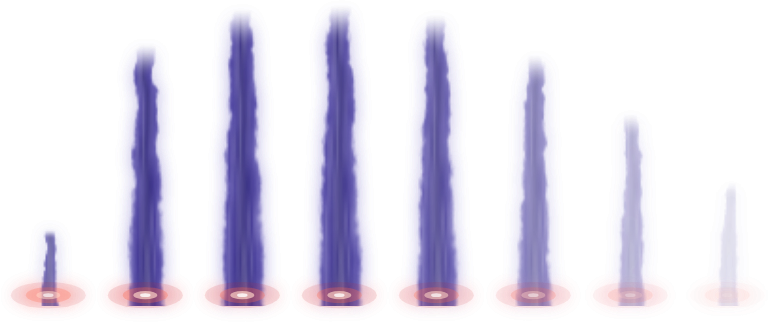
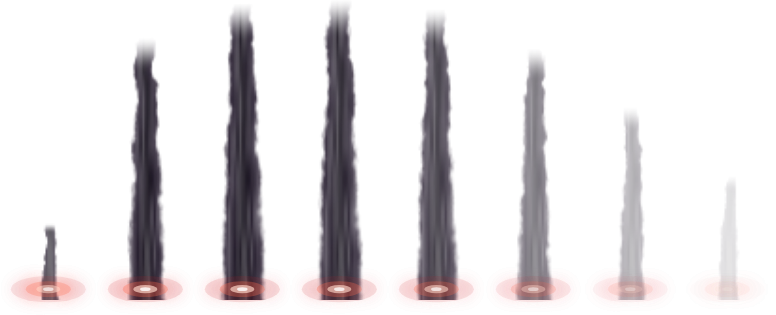
Shinobi ink back to black (the player's pick); Stormcaller's violet clouds stay

diff --git a/src/render/fx-sheets.js b/src/render/fx-sheets.js
@@ -133,20 +133,20 @@ export const FX_SHEETS = {
   celcomet: { w: 107, h: 269, n: 4, fps: 14, px: 53, py: 240, d: 3, loop: true },
   celhealbloom: { w: 191, h: 256, n: 7, fps: 18, px: 96, py: 218, d: 3, loop: false },
   cellightwall: { w: 104, h: 242, n: 6, fps: 14, px: 52, py: 225, d: 3, loop: true },
-  celslashink: { w: 246, h: 165, n: 8, fps: 30, px: 108, py: 122, d: 3, loop: false, r: 93.75, mid: -1.571, turn: 1 },
-  celinkhit: { w: 177, h: 174, n: 5, fps: 26, px: 80, py: 84, d: 3, loop: false },
+  celslashink: { w: 246, h: 157, n: 8, fps: 30, px: 108, py: 114, d: 3, loop: false, r: 93.75, mid: -1.571, turn: 1 },
+  celinkhit: { w: 166, h: 155, n: 5, fps: 26, px: 80, py: 77, d: 3, loop: false },
   celsmokebomb: { w: 245, h: 153, n: 8, fps: 18, px: 129, py: 128, d: 3, loop: false },
   celseal: { w: 211, h: 215, n: 7, fps: 14, px: 106, py: 106, d: 3, loop: false },
-  celinkfox: { w: 404, h: 204, n: 7, fps: 14, px: 190, py: 192, d: 3, loop: false },
+  celinkfox: { w: 378, h: 178, n: 7, fps: 14, px: 177, py: 179, d: 3, loop: false },
   celfoxfire: { w: 78, h: 153, n: 8, fps: 16, px: 40, py: 123, d: 3, loop: true },
   celfoxtrail: { w: 182, h: 60, n: 4, fps: 18, px: 156, py: 29, d: 3, loop: true },
   celfoxhit: { w: 172, h: 123, n: 7, fps: 22, px: 93, py: 83, d: 3, loop: false },
   celfoxtail: { w: 136, h: 197, n: 8, fps: 12, px: 111, py: 173, d: 3, loop: true },
   celflamefox: { w: 404, h: 200, n: 8, fps: 14, px: 190, py: 190, d: 3, loop: false },
-  celpillarink: { w: 97, h: 322, n: 8, fps: 20, px: 48, py: 295, d: 3, loop: false },
-  celringink: { w: 264, h: 264, n: 6, fps: 24, px: 132, py: 132, d: 3, loop: false },
+  celpillarink: { w: 97, h: 315, n: 8, fps: 20, px: 48, py: 289, d: 3, loop: false },
+  celringink: { w: 262, h: 261, n: 6, fps: 24, px: 131, py: 131, d: 3, loop: false },
   celembink: { w: 126, h: 126, n: 4, fps: 12, px: 63, py: 63, d: 3, loop: false },
-  celinkaura: { w: 132, h: 183, n: 8, fps: 10, px: 72, py: 167, d: 3, loop: true },
+  celinkaura: { w: 115, h: 175, n: 8, fps: 10, px: 62, py: 167, d: 3, loop: true },
   cellog: { w: 96, h: 98, n: 6, fps: 14, px: 45, py: 68, d: 3, loop: false },
   celpillarfox: { w: 84, h: 327, n: 8, fps: 20, px: 39, py: 298, d: 3, loop: false },
   celringfox: { w: 262, h: 262, n: 6, fps: 24, px: 130, py: 129, d: 3, loop: false },
@@ -174,10 +174,10 @@ export const FX_SHEETS = {
   celspitsplat: { w: 156, h: 157, n: 8, fps: 20, px: 71, py: 67, d: 3, loop: false },
   celringspiritbig: { of: 'celringspirit', k: 2.6 },
   cellanternbig: { of: 'cellantern', k: 1.5 },
-  celinkbrush: { w: 313, h: 86, n: 8, fps: 22, px: 155, py: 37, d: 3, loop: false },
+  celinkbrush: { w: 311, h: 77, n: 8, fps: 22, px: 155, py: 30, d: 3, loop: false },
   celleafwisp: { w: 92, h: 91, n: 8, fps: 14, px: 46, py: 45, d: 3, loop: true },
   celleapshadow: { w: 256, h: 155, n: 7, fps: 20, px: 206, py: 78, d: 3, loop: false },
-  celleapink: { w: 253, h: 151, n: 7, fps: 20, px: 206, py: 75, d: 3, loop: false },
+  celleapink: { w: 253, h: 148, n: 7, fps: 20, px: 206, py: 73, d: 3, loop: false },
   celleapfox: { w: 257, h: 152, n: 7, fps: 20, px: 206, py: 76, d: 3, loop: false },
   celleaphawk: { w: 258, h: 153, n: 7, fps: 20, px: 206, py: 76, d: 3, loop: false },
   celleapwind: { w: 253, h: 153, n: 7, fps: 20, px: 206, py: 76, d: 3, loop: false },

diff --git a/tools/fx-art.js b/tools/fx-art.js
@@ -3723,8 +3723,8 @@
   // finisher a giant fox painted in ink in one sweep of the brush (Okami's sumi-e brush; see
   // research/fx.md). The Kitsune is fox fire: blue flame with a white core and gold sparks, a
   // flame tail for each tail of her gauge, and a giant fox of blue fire with nine tails.
-  // Ink: deep indigo, never black (the player asked for nothing near-black in the effects).
-  const INKR = ramp([[0, '#2a2468'], [0.45, '#463c98'], [0.8, '#7268c4'], [1, '#aaa2e4']]);
+  // Ink: black sumi ink (the player's pick).
+  const INKR = ramp([[0, '#07050b'], [0.45, '#241c2c'], [0.8, '#4a3e52'], [1, '#7a6a80']]);
   const SEAL = ['#ffffff', '#ffd6c8', '#ff6a4e', '#c81e28'];
   const FIRE = ['#ffffff', '#d8f6ff', '#5cb4ff', '#1e4ad6'];
   const FOXR = ramp([[0, '#0a1670'], [0.25, '#1838c8'], [0.5, '#2f7cff'], [0.72, '#66c4ff'], [0.9, '#d4f4ff'], [1, '#ffffff']]);
@@ -4764,7 +4764,7 @@
     };
   }
   {
-    const INK5 = ['#ffffff', '#e8e4f6', '#7268c4', '#3c3488', '#2a2468'];
+    const INK5 = ['#ffffff', '#e8e4ee', '#7a6a80', '#2a2230', '#0e0a12'];
     const SEAL5 = ['#ffffff', '#ffd6c8', '#ff6a4e', '#c81e28', '#7a0a1a'];
     const FOX5 = ['#ffffff', '#d8f6ff', '#5cb4ff', '#1e4ad6', '#1a2a8a'];
     const GOLD5 = ['#ffffff', '#fff3c4', '#ffd36a', '#e09a2a', '#9a5a1a'];

diff --git a/src/render/scene.js b/src/render/scene.js
@@ -463,7 +463,7 @@ function drawPhantom(ctx, world, look, gear, x, y, state) {
       const cx = x + state.facing * side * (live ? 14 : 20);
       const pose = live && world.now >= ph.since + k * 0.08 ? { pose: ph.kind, progress: Math.min(1, (world.now - ph.since - k * 0.08) / ph.dur), dur: ph.dur, from: null, blend: 1 } : {};
       fxSprite(ctx, 'celinkaura', cx, y + 4, { t: t * 0.8 + k, scale: 0.36, alpha: 0.7 * state.alpha });
-      drawTinted(ctx, cx, y, '#2a2468', 0.86, (c) => drawHero(c, look, gear, cx, y, { ...state, ...pose, job: null, alpha: state.alpha * 0.62 }));
+      drawTinted(ctx, cx, y, '#14101a', 0.86, (c) => drawHero(c, look, gear, cx, y, { ...state, ...pose, job: null, alpha: state.alpha * 0.62 }));
     }
     return;
   }

diff --git a/src/render/thief-fx.js b/src/render/thief-fx.js
@@ -195,7 +195,7 @@ export function drawThiefFx(ctx, f, x, y, p, cam, time) {
       const a = Math.min(1, p * 5) * (p > 0.85 ? (1 - p) / 0.15 : 1);
       ctx.save();
       ctx.globalAlpha = 0.42 * a;
-      ctx.fillStyle = '#1c1240';
+      ctx.fillStyle = '#14101a';
       wash(ctx);
       ctx.restore();
       fxSprite(ctx, 'celsmokebomb', x, y + 6, { p: Math.min(1, p * 2), scale: 0.9 });
